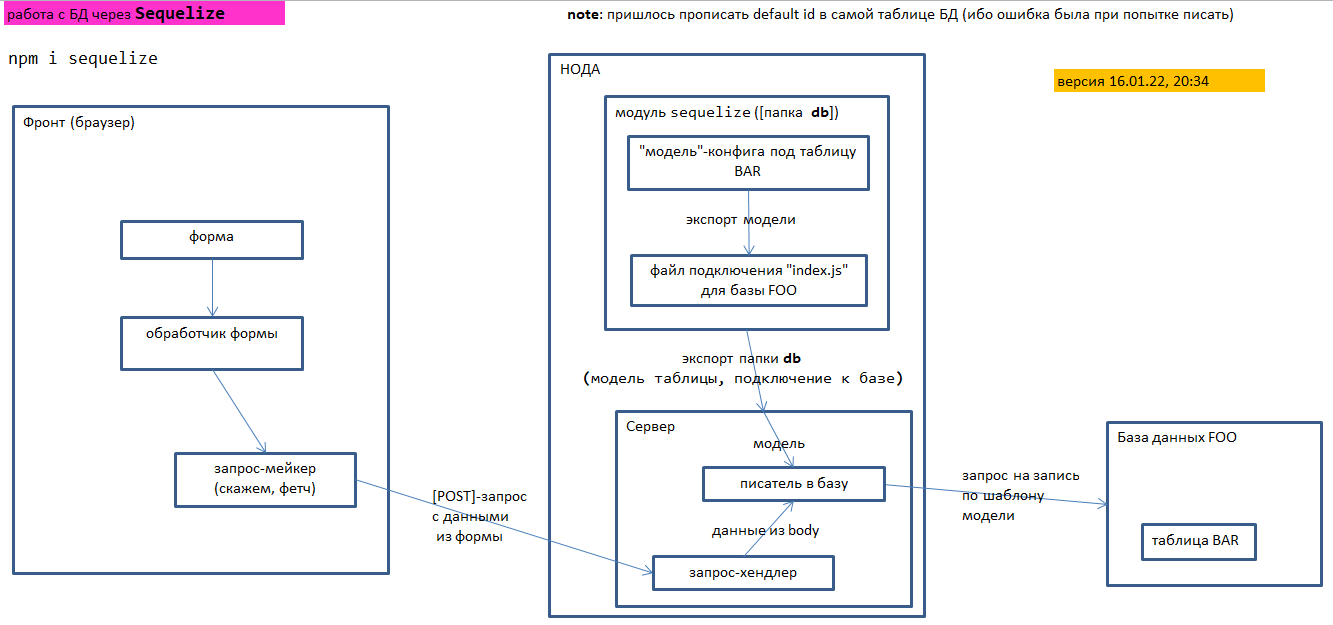
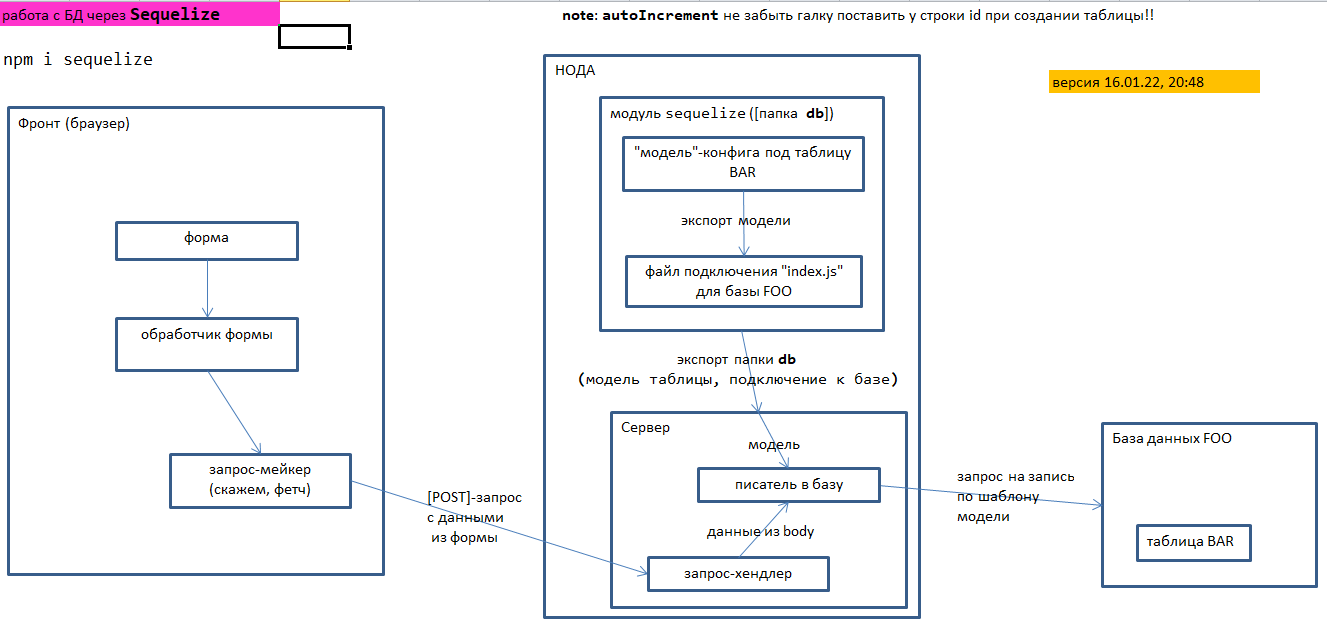
fix error with default id (select autoIncrement while creating a table in OpenServer)

diff --git a/app.js b/app.js
@@ -43,7 +43,7 @@ const server = http
 //отправка ресурсов - отправляет index.html, связанные стили, иконки
 function sendRes(url, contentType, res){
     let file = path.join(__dirname+'/static/',url); //полный путь к файлам в папке static
-    console.log('let file from function sendRes = ', file);//--------------------------------------------------
+    //console.log('let file from function sendRes = ', file);//--------------------------------------------------
 
     //kludge for correct consequence of operation  КОСТЫЛЬ для асинхронности!!!
     setTimeout(()=>{
@@ -57,7 +57,7 @@ function sendRes(url, contentType, res){
                 res.writeHead(200,{'Content-Type':contentType});
                 res.write(content);
                 res.end();
-                console.log(`res 200:${file}`);
+                //console.log(`res 200:${file}`);
             }
         })
     },100)
